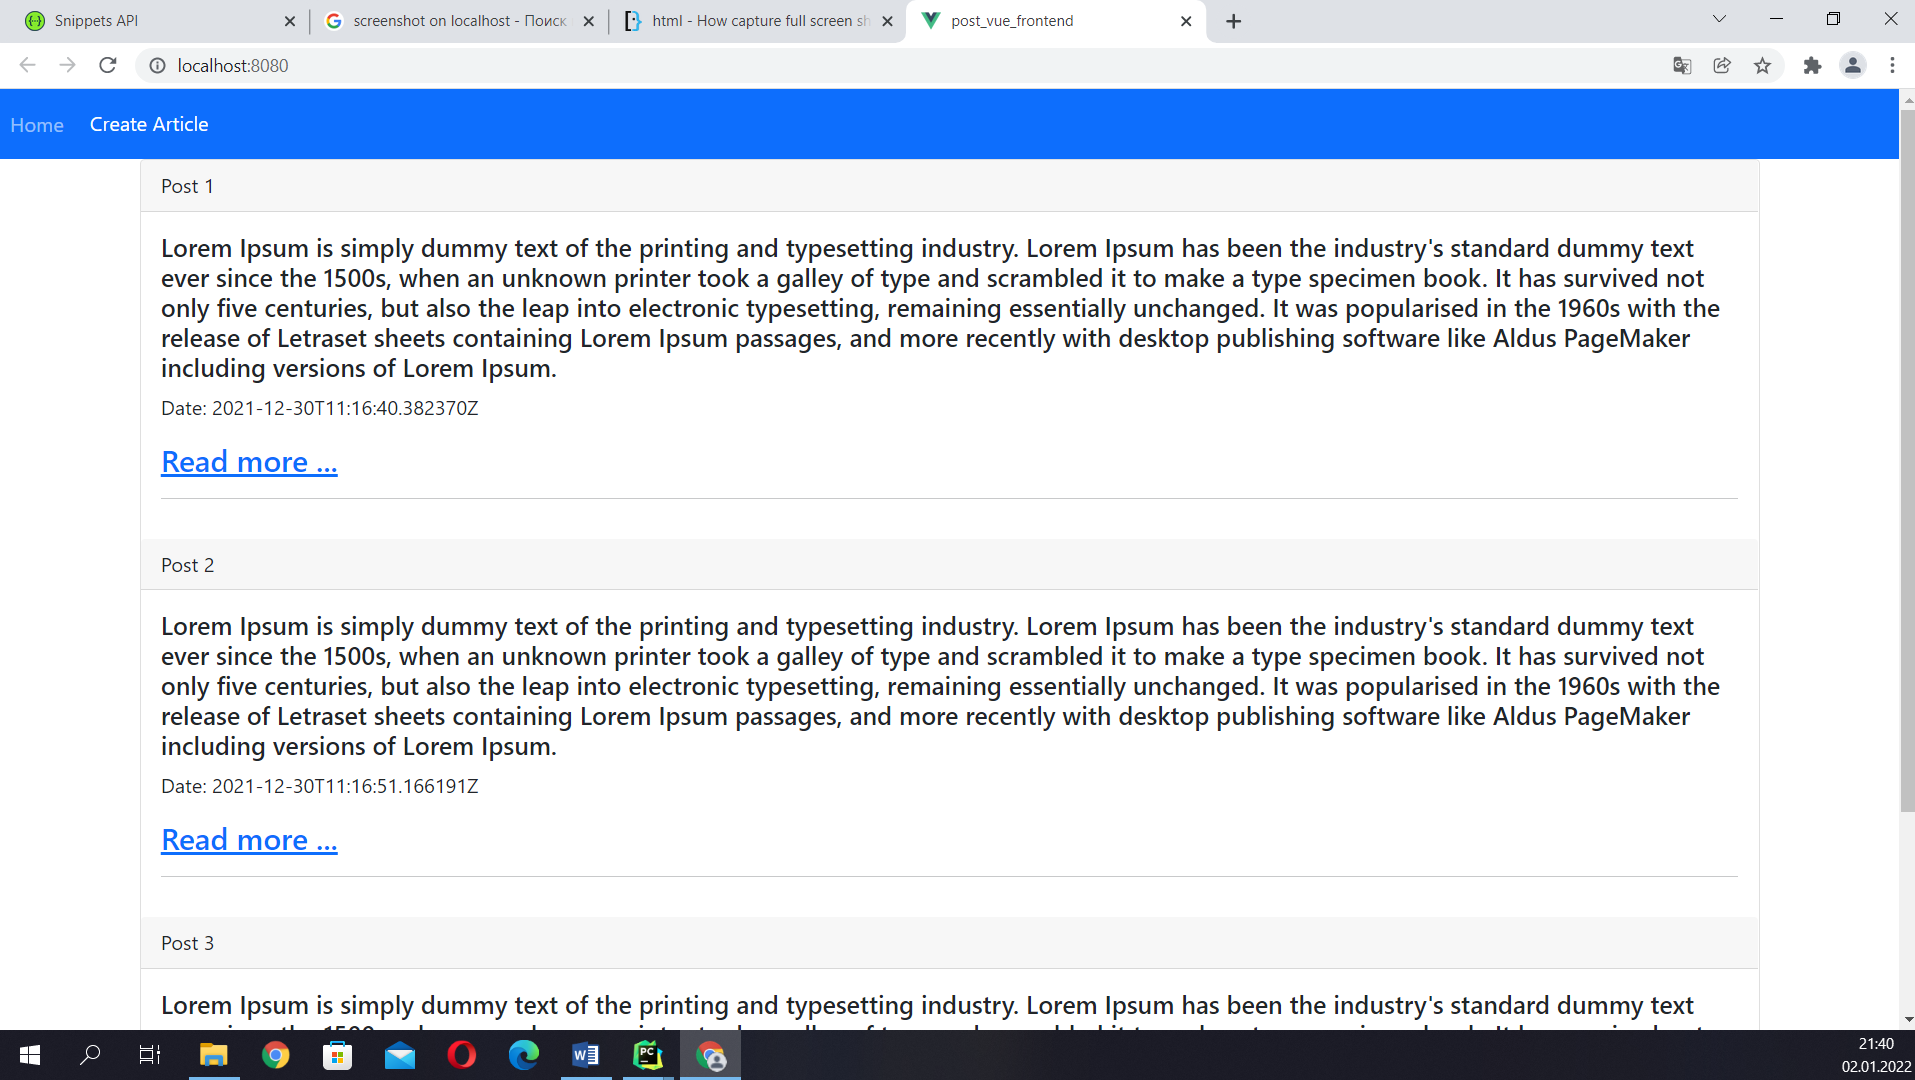
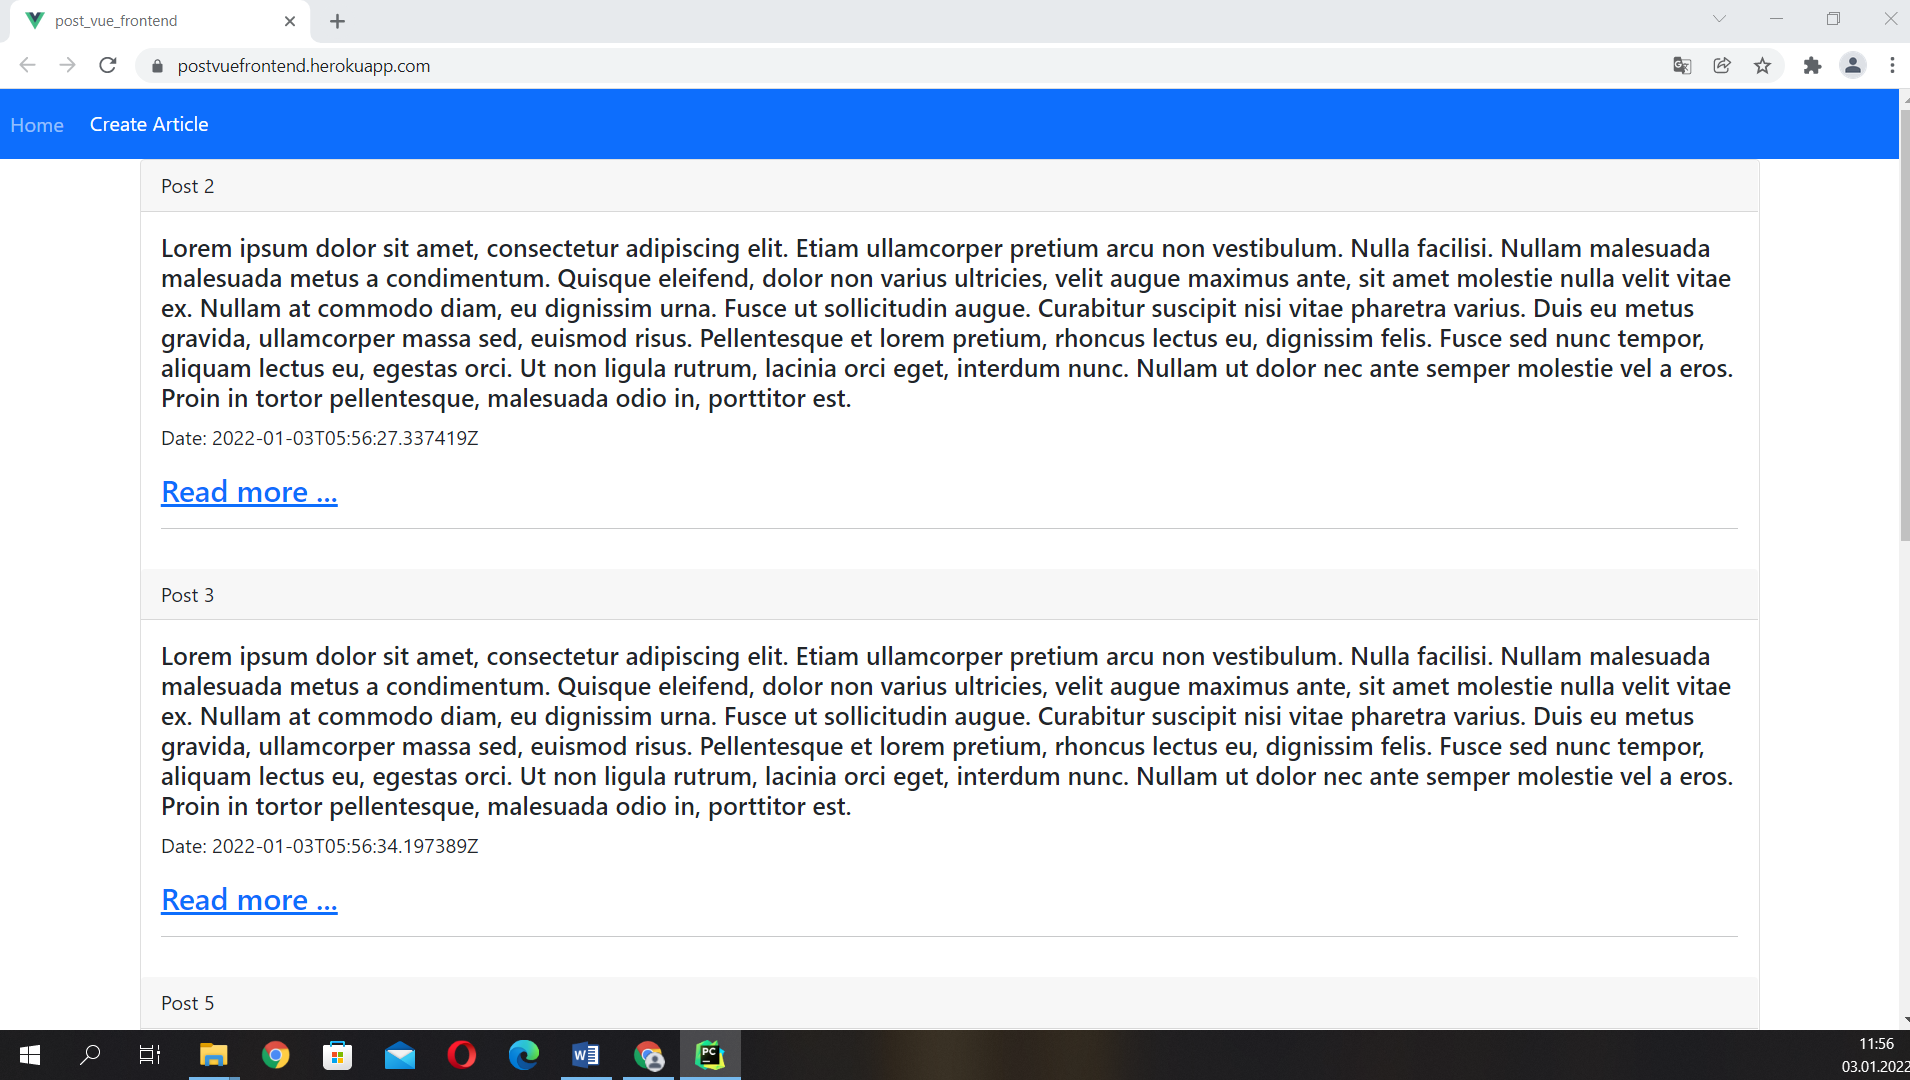
upgrade Readme

diff --git a/src/components/Navbar.vue b/src/components/Navbar.vue
@@ -6,7 +6,7 @@
            <a class="nav-link" href="/">Home</a>
         </li>
         <li class="nav-item">
-           <router-link class="btn btn-primary" to="/create"> Create Article </router-link>
+           <router-link class="btn btn-primary" to="/create"> Create Post </router-link>
         </li>
      </ul>
 </nav>

diff --git a/src/components/CreatePost.vue b/src/components/CreatePost.vue
@@ -1,5 +1,5 @@
 <template>
-<h1> create article</h1>
+<h1> create Post</h1>
 
   <div class="container mt-4">
 

diff --git a/README.md b/README.md
@@ -3,8 +3,10 @@
 npm install vue-router@4
 ```
 
-screenshot on localhost
+screenshot on heroku
 ====
+Link [https://postvuefrontend.herokuapp.com/](https://postvuefrontend.herokuapp.com/)
+
 
 1. Home Page
 
@@ -12,15 +14,15 @@ screenshot on localhost
    
 2. Create Post
 
-   ![](./src/assets/Home_page.png)
+   ![](./src/assets/Create_Post.png)
 
 3. Post
 
-   ![](./src/assets/Home_page.png)
+   ![](./src/assets/Post.png)
    
 4. Update Post
 
-   ![](./src/assets/Home_page.png)
+   ![](./src/assets/Update_Post.png)
 
 
 Deploy to heroku
